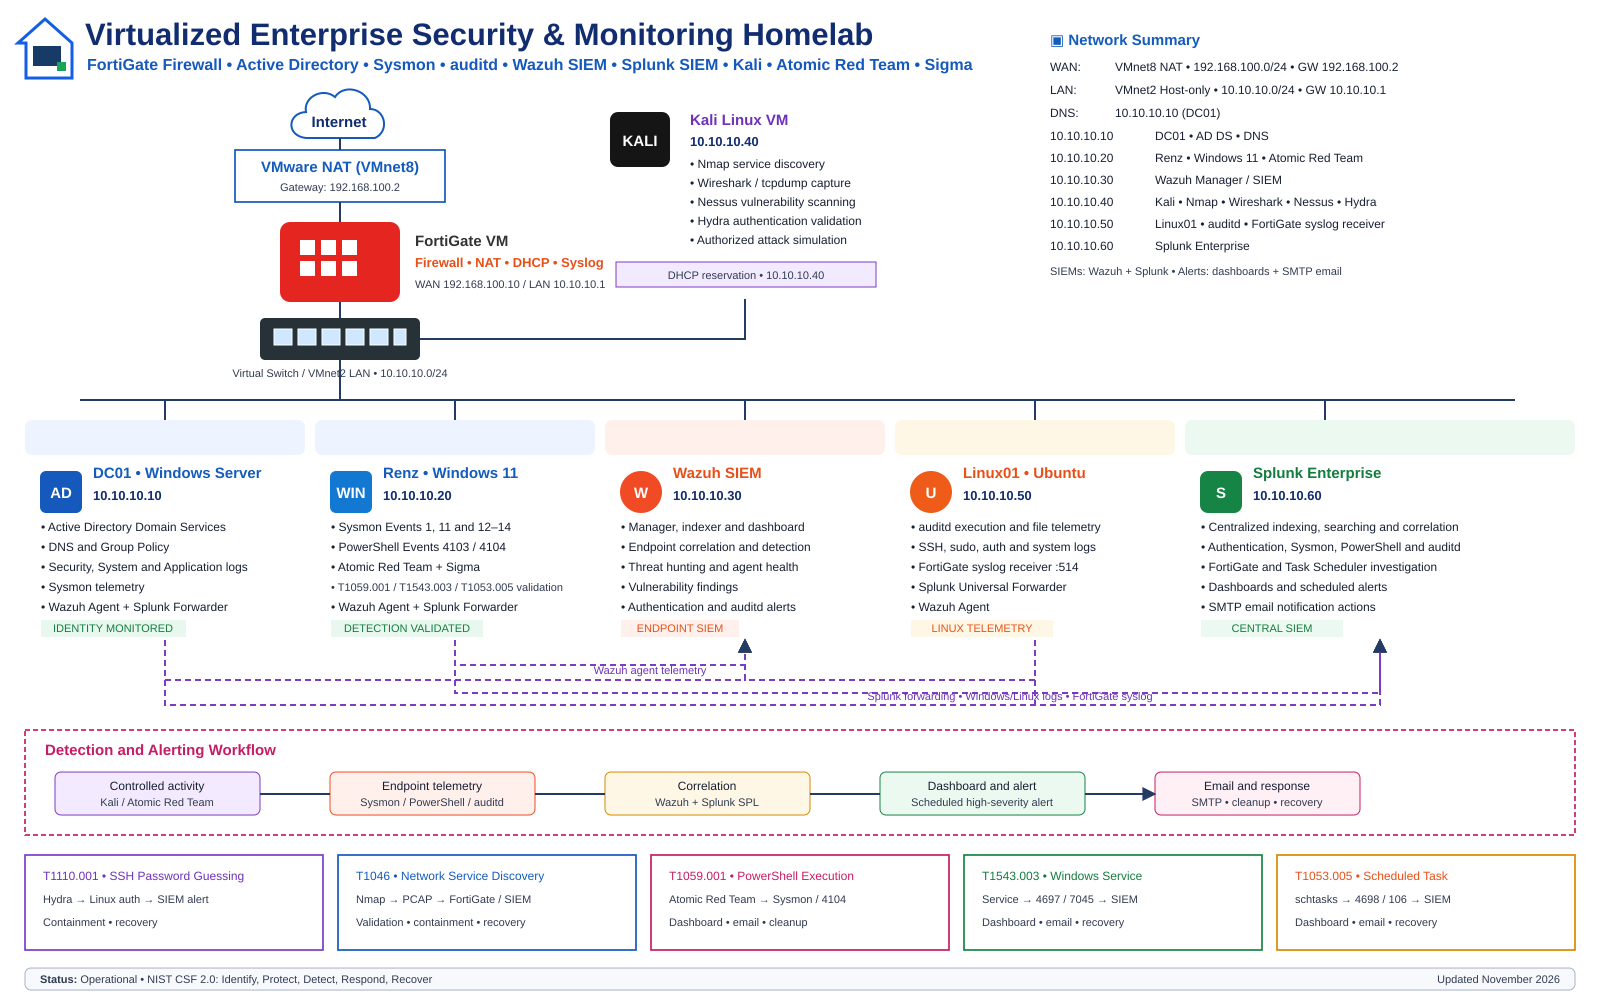
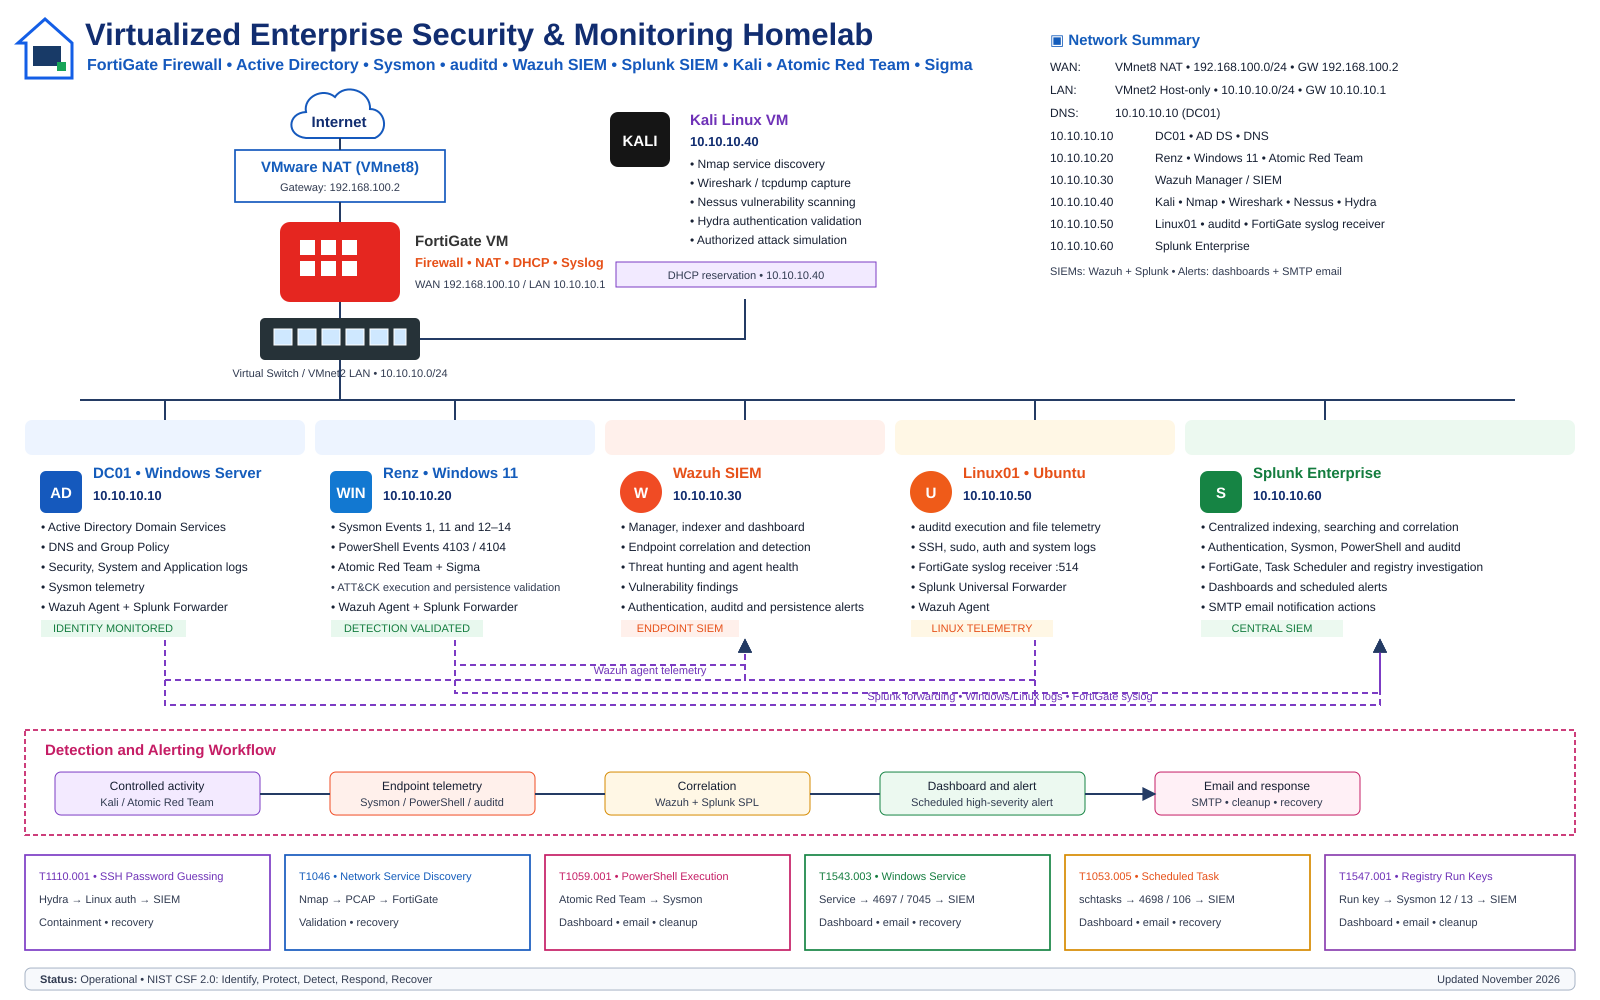
Document T1547.001 Registry Run Keys detection

diff --git a/tests/T1547-001-registry-run-keys/NIST-MITRE-Registry-Run-Keys.md b/tests/T1547-001-registry-run-keys/NIST-MITRE-Registry-Run-Keys.md
@@ -1,0 +1,145 @@
+# NIST–MITRE Registry Run Keys Detection Validation
+
+## Overview
+
+This exercise validates the detection and investigation of Windows Registry Run-key persistence in an isolated homelab. A harmless value named `T1547.001-LabRunKey` was created under the current user's Run key on the Windows 11 endpoint `Renz` (`10.10.10.20`). Native registry tools, Sysmon, Wazuh and Splunk were used to collect, correlate, alert on and investigate the activity.
+
+The exercise maps to **MITRE ATT&CK T1547.001 — Boot or Logon Autostart Execution: Registry Run Keys / Startup Folder** and covers preparation, controlled execution, SIEM detection, dashboarding, email notification, cleanup and recovery.
+
+## Authorization and scope
+
+- Environment: privately owned VMware homelab
+- Target: `Renz` — Windows 11 — `10.10.10.20`
+- Registry path: `HKCU\Software\Microsoft\Windows\CurrentVersion\Run`
+- Test value: `T1547.001-LabRunKey`
+- Test data: `C:\Windows\System32\cmd.exe /c exit 0`
+- SIEM platforms: Wazuh `10.10.10.30` and Splunk Enterprise `10.10.10.60`
+- Safety: the value was harmless, was not executed through a logon cycle and was removed after validation
+
+## Framework mapping
+
+| Framework | Mapping | Application |
+|---|---|---|
+| MITRE ATT&CK | `T1547.001` | Registry Run-key persistence mechanism |
+| NIST CSF 2.0 — Identify | `ID.AM`, `ID.RA` | Identified the endpoint, registry location and persistence risk |
+| NIST CSF 2.0 — Protect | `PR.PS`, `PR.AA` | Maintained endpoint monitoring and controlled administrative access |
+| NIST CSF 2.0 — Detect | `DE.CM`, `DE.AE` | Monitored registry changes through Sysmon, Wazuh and Splunk |
+| NIST CSF 2.0 — Respond | `RS.AN`, `RS.MI` | Investigated and removed the unauthorized-style persistence value |
+| NIST CSF 2.0 — Recover | `RC.RP`, `RC.CO` | Verified value removal, service health and SIEM connectivity |
+
+## Telemetry and expected events
+
+| Source | Event | Purpose |
+|---|---:|---|
+| Sysmon Operational | `12` | Registry object creation/deletion, including deletion evidence |
+| Sysmon Operational | `13` | Registry value set |
+| Sysmon Operational | `14` | Registry key/value rename, when applicable |
+| Wazuh | Rule-based event | Endpoint detection and threat-hunting context |
+| Splunk | Correlated event | Investigation, dashboard, alert and email action |
+
+## Procedure
+
+### 1. Verify monitoring
+
+Sysmon, Wazuh Agent and Splunk Universal Forwarder were confirmed running on `Renz`.
+
+### 2. Establish a registry baseline
+
+The existing contents of the following key were displayed, saved as text and exported before testing:
+
+```text
+HKCU\Software\Microsoft\Windows\CurrentVersion\Run
+```
+
+### 3. Validate Sysmon registry telemetry
+
+A temporary benign key named `T1547BaselineTest` was created, modified and removed. Sysmon Events `12` and `13` confirmed that registry activity was being collected before the persistence test.
+
+### 4. Create the controlled Run value
+
+```powershell
+$RunKey = "HKCU:\Software\Microsoft\Windows\CurrentVersion\Run"
+
+New-ItemProperty `
+-Path $RunKey `
+-Name "T1547.001-LabRunKey" `
+-PropertyType String `
+-Value "$env:SystemRoot\System32\cmd.exe /c exit 0" `
+-Force
+```
+
+No sign-out or restart was performed, so the value did not need to execute.
+
+### 5. Validate local telemetry
+
+Sysmon Event `13` was reviewed for the user, process image, target registry object and value data.
+
+### 6. Correlate in Wazuh and Splunk
+
+Events were searched by host, test value and Event ID. The investigation correlated:
+
+- Host and user
+- Sysmon Event ID
+- Process image
+- Registry target object
+- Registry value data
+- Event timestamp
+
+### 7. Create dashboard and alert
+
+A Splunk dashboard panel named **T1547.001 — Registry Run Key Activity** was created. A high-severity scheduled alert searched a five-minute window every minute and added matching results to Triggered Alerts and an SMTP email action.
+
+### 8. Remove the value and verify recovery
+
+Only the controlled value was removed:
+
+```powershell
+Remove-ItemProperty `
+-Path "HKCU:\Software\Microsoft\Windows\CurrentVersion\Run" `
+-Name "T1547.001-LabRunKey" `
+-Force
+```
+
+The entire Windows Run key was not deleted. Value absence, Sysmon deletion telemetry, monitoring-service status, Splunk forwarding and Wazuh connectivity were verified afterward.
+
+## Detection logic
+
+Reusable Splunk searches are stored in [splunk-searches.spl](splunk-searches.spl). Wazuh threat-hunting queries are stored in [wazuh-queries.txt](wazuh-queries.txt).
+
+Detection focuses on:
+
+- Sysmon Event `13` targeting Windows Run locations
+- Newly created or modified Run values
+- Process and user responsible for the change
+- Value data that launches an executable, script or command interpreter
+- Sysmon Event `12` during containment or cleanup
+
+## Results
+
+- A clean Run-key baseline was recorded.
+- Sysmon registry collection was verified before testing.
+- The controlled Run value generated Sysmon Event `13`.
+- Wazuh and Splunk displayed the associated registry telemetry.
+- A Splunk dashboard panel and high-severity alert were created.
+- The alert appeared in Triggered Alerts and delivered an SMTP email.
+- The test value was removed without deleting legitimate Run values.
+- Endpoint monitoring and SIEM connectivity remained operational.
+
+## Evidence
+
+The [screenshots](screenshots/) directory contains 15 ordered screenshots covering endpoint preparation, registry baseline, controlled persistence, local and SIEM telemetry, dashboarding, alerting, email delivery, cleanup and recovery.
+
+## Lessons learned
+
+- A registry baseline helps distinguish legitimate startup applications from test or suspicious values.
+- Sysmon Event `13` provides useful process, user, registry path and value-data context.
+- Alerts should focus on sensitive Run locations while retaining enough fields for investigation.
+- Throttling prevents repeated notifications but should be considered during controlled validation.
+- Cleanup must remove only the test value rather than the complete Windows Run key.
+- Recovery evidence confirms that testing left no persistence artifact.
+
+## References
+
+- [MITRE ATT&CK T1547.001 — Registry Run Keys / Startup Folder](https://attack.mitre.org/techniques/T1547/001/)
+- [Microsoft Sysmon event documentation](https://learn.microsoft.com/sysinternals/downloads/sysmon)
+

diff --git a/README.md b/README.md
@@ -12,7 +12,7 @@ The environment simulates SOC monitoring, centralized telemetry, firewall admini
 |---|---:|---|
 | FortiGate VM | `10.10.10.1` | LAN gateway, DHCP, firewall, NAT and syslog source |
 | DC01 | `10.10.10.10` | Windows Server, AD DS, DNS, Sysmon, Wazuh agent and Splunk Universal Forwarder |
-| Renz | `10.10.10.20` | Windows 11 endpoint, Sysmon, PowerShell and Task Scheduler logging, Atomic Red Team, Sigma and SIEM agents |
+| Renz | `10.10.10.20` | Windows 11 endpoint, Sysmon registry/process telemetry, PowerShell and Task Scheduler logging, Atomic Red Team, Sigma and SIEM agents |
 | Wazuh | `10.10.10.30` | Manager, indexer, dashboard, correlation and endpoint alerting |
 | Kali Linux | `10.10.10.40` | Nmap, Wireshark, Nessus, Hydra and validation tooling |
 | Linux01 | `10.10.10.50` | Ubuntu telemetry host, auditd, FortiGate syslog receiver, Wazuh agent and Splunk Universal Forwarder |
@@ -54,6 +54,7 @@ The environment simulates SOC monitoring, centralized telemetry, firewall admini
 - PowerShell and Sysmon process investigation
 - Windows service-installation monitoring
 - Windows scheduled-task creation and deletion monitoring
+- Windows Registry Run-key persistence monitoring
 - Linux sudo, SSH, execution and file-deletion activity
 - FortiGate denied and local-in traffic analysis
 - Nessus vulnerability scanning and remediation evidence
@@ -67,6 +68,7 @@ The environment simulates SOC monitoring, centralized telemetry, firewall admini
 - Validated PowerShell Operational Event IDs `4103` and `4104`
 - Validated Windows service installation through Security Event `4697`, System Event `7045` and related Sysmon telemetry
 - Validated scheduled-task activity through Security Events `4698`/`4699`, Task Scheduler Events `106`/`141` and Sysmon process creation
+- Validated Registry Run-key persistence through Sysmon Events `12` and `13`, Wazuh threat hunting and Splunk correlation
 - Built Splunk investigations, dashboards, scheduled alerts and email notifications
 - Documented cleanup, containment, recovery and lessons learned
 
@@ -79,6 +81,7 @@ The environment simulates SOC monitoring, centralized telemetry, firewall admini
 | [PowerShell Execution Validation](tests/T1059-001-powershell-execution-validation/NIST-MITRE-PowerShell-Execution-Validation.md) | `T1059.001` | Atomic Red Team, Sysmon, PowerShell logging, Splunk correlation, dashboard, alert, email and cleanup |
 | [Windows Service Creation](tests/T1543-003-windows-service-creation/NIST-MITRE-Windows-Service-Creation.md) | `T1543.003` | Controlled service installation, Events 4697/7045, Sysmon, Wazuh, Splunk, dashboard, email and recovery |
 | [Windows Scheduled Task](tests/T1053-005-windows-scheduled-task/NIST-MITRE-Windows-Scheduled-Task.md) | `T1053.005` | Controlled task creation, Events 4698/106, Sysmon, Wazuh, Splunk dashboard, high-severity alert, email and recovery |
+| [Registry Run Keys](tests/T1547-001-registry-run-keys/NIST-MITRE-Registry-Run-Keys.md) | `T1547.001` | Controlled HKCU Run-value creation, Sysmon Events 12/13, Wazuh, Splunk dashboard, high-severity alert, email and recovery |
 
 ## Completed response workflows
 
@@ -123,6 +126,15 @@ The environment simulates SOC monitoring, centralized telemetry, firewall admini
 4. Correlated the task name, event ID, process, command line, host and timestamp in Wazuh and Splunk.
 5. Added a Splunk dashboard panel, high-severity scheduled alert and SMTP email notification.
 6. Deleted the task, reviewed Events `4699`/`141`, and verified agent, forwarder and SIEM connectivity.
+
+### Registry Run-key persistence
+
+1. Established a baseline of `HKCU\Software\Microsoft\Windows\CurrentVersion\Run`.
+2. Verified Sysmon registry telemetry with a temporary benign key.
+3. Created a harmless Run value named `T1547.001-LabRunKey` pointing to `cmd.exe /c exit 0`.
+4. Correlated Sysmon Event `13`, the process, user, registry target and value data in Wazuh and Splunk.
+5. Added a Splunk dashboard panel, high-severity scheduled alert and SMTP email notification.
+6. Removed only the test value, reviewed Sysmon deletion telemetry and verified endpoint and SIEM recovery.
 
 ## Documentation
 
@@ -181,13 +193,20 @@ The environment simulates SOC monitoring, centralized telemetry, firewall admini
     │   └── screenshots/
     │       ├── README.md
     │       └── 20 evidence screenshots
-    └── T1053-005-windows-scheduled-task/
-        ├── NIST-MITRE-Windows-Scheduled-Task.md
+    ├── T1053-005-windows-scheduled-task/
+    │   ├── NIST-MITRE-Windows-Scheduled-Task.md
+    │   ├── splunk-searches.spl
+    │   ├── wazuh-queries.txt
+    │   └── screenshots/
+    │       ├── README.md
+    │       └── 20 evidence screenshots
+    └── T1547-001-registry-run-keys/
+        ├── NIST-MITRE-Registry-Run-Keys.md
         ├── splunk-searches.spl
         ├── wazuh-queries.txt
         └── screenshots/
             ├── README.md
-            └── 20 evidence screenshots
+            └── 15 evidence screenshots
 ```
 
 ## Evidence standards
@@ -205,6 +224,7 @@ Only sanitized evidence is published. Passwords, application passwords, API toke
 - Detection engineering with Sigma and Atomic Red Team
 - Windows service creation and persistence detection
 - Windows scheduled-task persistence detection
+- Windows Registry Run-key persistence detection
 - NIST CSF 2.0 and MITRE ATT&CK mapping
 - Vulnerability assessment and packet analysis
 - Incident containment, recovery and technical documentation
@@ -212,4 +232,5 @@ Only sanitized evidence is published. Passwords, application passwords, API toke
 ## Disclaimer
 
 All security testing documented in this repository was conducted only against privately owned and authorized virtual machines in an isolated homelab. The material is intended for defensive security education and portfolio demonstration.
+
 

diff --git a/tests/T1547-001-registry-run-keys/screenshots/README.md b/tests/T1547-001-registry-run-keys/screenshots/README.md
@@ -1,0 +1,24 @@
+# T1547.001 Evidence Index
+
+The screenshots are ordered to show preparation, controlled execution, detection, alerting, cleanup and recovery.
+
+| # | Screenshot | Evidence |
+|---:|---|---|
+| 01 | `01-endpoint-identity.png` | Windows endpoint identity and address |
+| 02 | `02-monitoring-services-running.png` | Sysmon, Wazuh Agent and Splunk Forwarder health |
+| 03 | `03-registry-baseline.png` | Existing current-user Run values |
+| 04 | `04-sysmon-registry-baseline.png` | Sysmon registry telemetry validation |
+| 05 | `05-controlled-run-key-creation.png` | Harmless Run-value creation |
+| 06 | `06-created-run-key-details.png` | Registry path, name, type and data |
+| 07 | `07-local-sysmon-event-13.png` | Local Sysmon registry value-set event |
+| 08 | `08-splunk-registry-events.png` | Splunk registry-event investigation |
+| 09 | `09-wazuh-registry-alert.png` | Wazuh registry evidence |
+| 10 | `10-splunk-dashboard.png` | T1547.001 dashboard panel |
+| 11 | `11-splunk-alert-config.png` | High-severity alert configuration |
+| 12 | `12-splunk-alert-triggered.png` | Triggered Splunk alert |
+| 13 | `13-email-alert.png` | SMTP email notification |
+| 14 | `14-run-key-cleanup.png` | Value removal and Sysmon deletion event |
+| 15 | `15-recovery-validated.png` | Value absence, service health and SIEM connectivity |
+
+All screenshots must be sanitized before publication. Passwords, application passwords, tokens, cookies and personal email addresses must not be visible.
+
